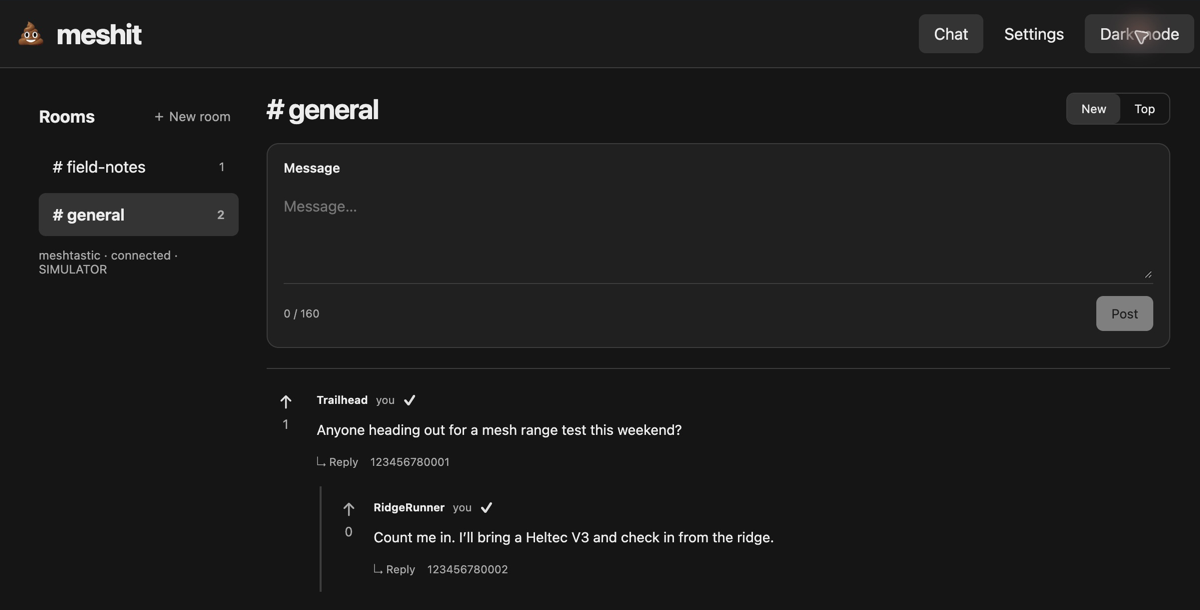
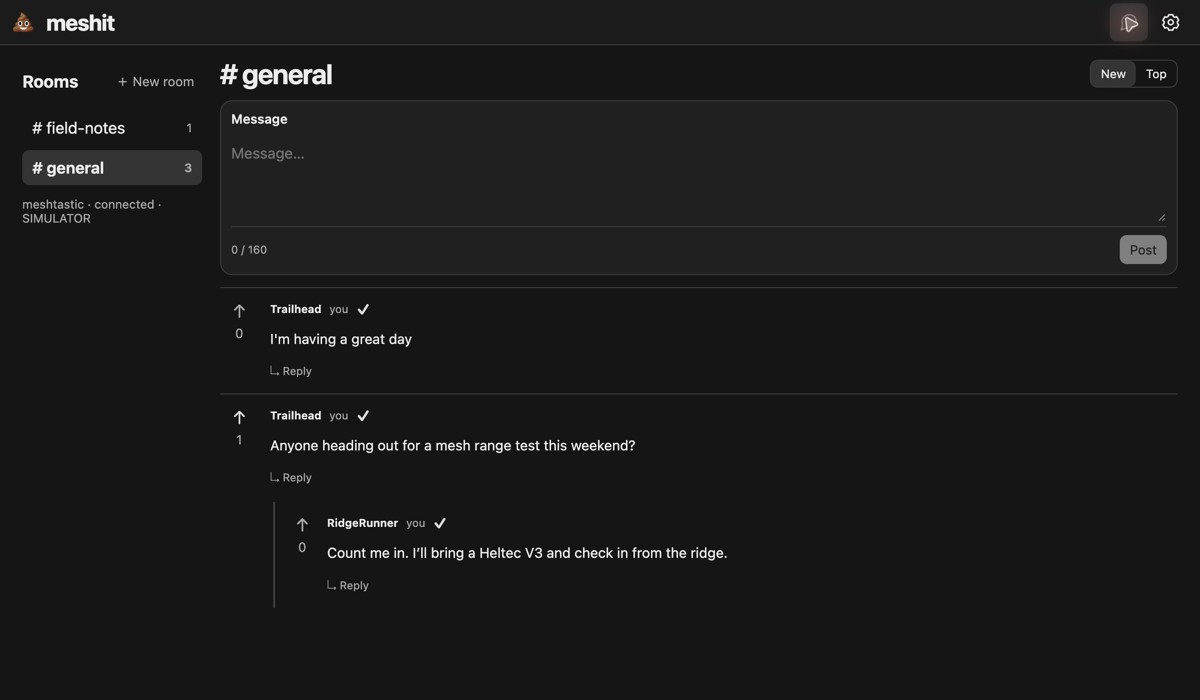
Compact client navigation and move appearance controls into settings

diff --git a/web/style.css b/web/style.css
@@ -3,41 +3,43 @@
 body{margin:0}
 button,input,select,textarea{font:inherit}
 button,a,input,select,textarea{outline-offset:4px}
-button{cursor:pointer;border:0;border-radius:7px;padding:10px 15px;color:inherit;background:transparent}
+button{cursor:pointer;border:0;border-radius:7px;padding:7px 10px;color:inherit;background:transparent}
 button:disabled{opacity:.5;cursor:wait}
 button:hover{background:var(--light)}
-header{background:var(--header);color:var(--header-ink);border-bottom:1px solid var(--line);min-height:68px;padding:12px max(24px,calc((100vw - 1180px)/2));display:flex;align-items:center;justify-content:space-between;gap:20px}
-.brand{font-weight:750;font-size:28px;letter-spacing:-1px;display:flex;align-items:center;gap:10px;color:inherit;text-decoration:none}
-.mark{display:inline-flex;align-items:center;justify-content:center;width:32px;height:32px;font-size:28px;letter-spacing:0}
-nav{display:flex;gap:6px}
+header{background:var(--header);color:var(--header-ink);border-bottom:1px solid var(--line);min-height:44px;padding:3px max(12px,calc((100vw - 1180px)/2));display:flex;align-items:center;justify-content:space-between;gap:10px}
+.brand{font-weight:750;font-size:22px;letter-spacing:-.5px;display:flex;align-items:center;gap:10px;color:inherit;text-decoration:none}
+.mark{display:inline-flex;align-items:center;justify-content:center;width:26px;height:26px;font-size:23px;letter-spacing:0}
+nav{display:flex;gap:4px}
+nav button{display:grid;place-items:center;width:38px;height:38px;padding:8px}
+nav svg{width:20px;height:20px;fill:none;stroke:currentColor;stroke-width:1.8;stroke-linecap:round;stroke-linejoin:round}
 nav button[aria-current=page]{background:var(--header-hover)}
 nav button:hover{background:var(--header-hover)}
-#notice{max-width:1180px;margin:auto;padding:0 24px;font-size:14px;color:var(--notice-ink)}
-#notice:not(:empty){padding:14px 24px;background:var(--notice-bg)}
-.shell{max-width:1180px;margin:24px auto;padding:0 24px;display:grid;grid-template-columns:200px minmax(0,1fr);gap:28px}
+#notice{max-width:1180px;margin:auto;padding:0 12px;font-size:14px;color:var(--notice-ink)}
+#notice:not(:empty){padding:8px 12px;background:var(--notice-bg)}
+.shell{max-width:1180px;margin:12px auto;padding:0 12px;display:grid;grid-template-columns:180px minmax(0,1fr);gap:18px}
 [hidden]{display:none!important}
 .aside-title{display:flex;align-items:center;justify-content:space-between;gap:5px}
 h2{font-size:17px}
 h1{letter-spacing:-1px;font-size:28px;font-weight:650;margin:0}
 .quiet{color:var(--muted);font-size:13px;padding:8px}
-.room{display:flex;align-items:center;justify-content:space-between;width:100%;text-align:left;margin:5px 0;padding:12px 14px}
+.room{display:flex;align-items:center;justify-content:space-between;width:100%;text-align:left;margin:5px 0;padding:8px 10px}
 .room.selected{background:var(--light);font-weight:650}
 .room span:last-child{font-size:12px;color:var(--muted)}
 .connection{font-size:12px;color:var(--muted)}
-.conversation-title{display:flex;justify-content:space-between;align-items:center;gap:12px;margin-bottom:18px}
+.conversation-title{display:flex;justify-content:space-between;align-items:center;gap:12px;margin-bottom:10px}
 .segmented{display:flex;border:1px solid var(--line);border-radius:8px}
-.segmented button{font-size:12px;padding:8px 14px}
+.segmented button{font-size:12px;padding:6px 10px}
 .segmented button[aria-pressed=true]{background:var(--light)}
-#compose{background:var(--white);border:1px solid var(--line);border-radius:12px;padding:16px;margin-bottom:20px}
+#compose{background:var(--white);border:1px solid var(--line);border-radius:12px;padding:10px;margin-bottom:12px}
 label{font-size:13px;font-weight:600;display:block;margin-bottom:8px}
-textarea{border:0;background:transparent;width:100%;resize:vertical;min-height:78px;color:var(--ink);font-size:15px;line-height:1.7;padding:10px 0}
+textarea{border:0;background:transparent;width:100%;resize:vertical;min-height:56px;color:var(--ink);font-size:15px;line-height:1.7;padding:6px 0}
 textarea:focus-visible{outline:2px solid var(--accent);outline-offset:3px;border-radius:4px}
-.composer-footer{display:flex;justify-content:space-between;align-items:center;gap:12px;border-top:1px solid var(--line);padding-top:12px}
+.composer-footer{display:flex;justify-content:space-between;align-items:center;gap:12px;border-top:1px solid var(--line);padding-top:8px}
 .composer-footer>span{font-size:11px;color:var(--muted)}
 .primary{background:var(--accent);color:var(--primary-ink);font-size:13px}
 .primary:hover{background:var(--primary-hover)}
 .secondary{background:var(--light)}
-.post{padding:22px 0;border-top:1px solid var(--line);display:grid;grid-template-columns:38px minmax(0,1fr);gap:12px}
+.post{padding:12px 0;border-top:1px solid var(--line);display:grid;grid-template-columns:38px minmax(0,1fr);gap:12px}
 .vote{display:flex;flex-direction:column;align-items:center;font-size:13px;color:var(--muted)}
 .vote button{font-size:18px;padding:0 8px 4px}
 .vote button[aria-pressed=true]{color:var(--vote)}
@@ -49,18 +51,18 @@ textarea:focus-visible{outline:2px solid var(--accent);outline-offset:3px;border
 .ack{color:var(--ack);font-size:15px;font-weight:700}
 .children{margin:14px 0 0 3px;border-left:2px solid var(--line);padding-left:14px}
 .children .post{padding:12px 0;border:0;grid-template-columns:26px minmax(0,1fr)}
-.empty{text-align:center;color:var(--muted);padding:55px 20px}
+.empty{text-align:center;color:var(--muted);padding:30px 12px}
 .empty h2{color:var(--ink);font-size:18px;font-weight:600}
-.settings{max-width:680px;margin:24px auto;padding:0 24px 60px}
-.settings-card{border:1px solid var(--line);border-radius:12px;background:var(--white);padding:24px;margin:20px 0}
-.settings-card h2{margin:0 0 20px}
-.settings-card label,dialog label{margin-top:16px}
-input:not([type=radio]),select{display:block;width:100%;border:1px solid var(--line);border-radius:6px;padding:11px;margin-top:7px;color:var(--ink);background:var(--white)}
+.settings{max-width:680px;margin:12px auto;padding:0 12px 60px}
+.settings-card{border:1px solid var(--line);border-radius:12px;background:var(--white);padding:12px;margin:12px 0}
+.settings-card h2{margin:0 0 10px}
+.settings-card label,dialog label{margin-top:10px}
+input:not([type=radio]),select{display:block;width:100%;border:1px solid var(--line);border-radius:6px;padding:8px;margin-top:7px;color:var(--ink);background:var(--white)}
 .hint{color:var(--muted);font-weight:400;font-size:12px;line-height:1.7}
 .network-options{display:flex;gap:12px;flex-wrap:wrap}
-.network-options label{padding:14px;border:1px solid var(--line);border-radius:8px;flex:1;margin-bottom:0;white-space:nowrap}
+.network-options label{padding:9px;border:1px solid var(--line);border-radius:8px;flex:1;margin-bottom:0;white-space:nowrap}
 .network-options input{accent-color:var(--accent)}
-dialog{background:var(--white);border:1px solid var(--line);color:var(--ink);border-radius:18px;max-width:480px;width:calc(100% - 32px);padding:36px}
+dialog{background:var(--white);border:1px solid var(--line);color:var(--ink);border-radius:18px;max-width:480px;width:calc(100% - 32px);padding:20px}
 dialog::backdrop{background:#000000af;backdrop-filter:blur(3px)}
 dialog h1{font-size:28px;margin-bottom:15px}
 dialog p{font-size:14px;line-height:1.7;color:var(--muted)}
@@ -69,21 +71,21 @@ dialog .primary{margin-top:24px;width:100%}
 .actions .primary{margin:0}
 #reply-context{font-size:12px;color:var(--muted);padding-top:6px}
 #setup-connect{display:block;margin:15px auto 0}
-@media(max-width:760px){header{padding:12px 16px;min-height:64px;gap:8px}
+@media(max-width:760px){header{padding:2px 10px;min-height:44px;gap:8px}
 nav{gap:2px}
-nav button{padding:8px;font-size:12px}
-.brand{font-size:24px}
-.shell{margin-top:22px;padding:0 16px;grid-template-columns:1fr;gap:24px}
-aside{border-bottom:1px solid var(--line);padding-bottom:16px}
+nav button{padding:8px}
+.brand{font-size:22px}
+.shell{margin-top:10px;padding:0 10px;grid-template-columns:1fr;gap:12px}
+aside{border-bottom:1px solid var(--line);padding-bottom:8px}
 .aside-title h2{font-size:13px}
 #rooms{display:flex;overflow-x:auto;gap:6px}
-.room{width:auto;gap:15px;white-space:nowrap;padding:9px 12px}
+.room{width:auto;gap:15px;white-space:nowrap;padding:7px 10px}
 .connection{margin:10px 0 0}
 .conversation-title h1{font-size:24px}
 .post{gap:8px}
-dialog{padding:26px}
-#compose{padding:16px}
-.settings{margin-top:26px}
+dialog{padding:16px}
+#compose{padding:10px}
+.settings{margin-top:12px}
 .children{padding-left:9px}
 .composer-footer{align-items:flex-start}
 .composer-footer>div{display:flex;gap:5px}
@@ -95,7 +97,7 @@ dialog{padding:26px}
 
 :root[data-theme="dark"]{color-scheme:dark;--ink:#ededed;--muted:#ababab;--paper:#151515;--line:#3c3c3c;--accent:#dedede;--light:#343434;--white:#202020;--header:#1b1b1b;--header-ink:#ededed;--header-hover:#343434;--primary-hover:#ffffff;--primary-ink:#171717;--notice-ink:#ededed;--notice-bg:#343434;--vote:#dedede;--ack:#dedede;}
 
-#theme-toggle[aria-pressed="true"]{background:var(--header-hover)}
+@media(pointer:coarse){nav button{width:44px;height:44px}}
 
 @media(max-width:380px){header{flex-wrap:wrap}
 nav{margin-left:auto}

diff --git a/web/index.html b/web/index.html
@@ -3,7 +3,7 @@
 try{const theme=localStorage.getItem('meshit.theme');if(theme==='dark'||theme==='light')document.documentElement.dataset.theme=theme;}catch{}
 </script><link rel="stylesheet" href="/style.css"></head>
 <body>
-<header><a class="brand" href="#chat"><span class="mark" aria-hidden="true">💩</span> meshit</a><nav><button id="chat-tab" aria-current="page">Chat</button><button id="settings-tab">Settings</button><button id="theme-toggle" aria-label="Dark mode" aria-pressed="false">Dark mode</button></nav></header>
+<header><a class="brand" href="#chat"><span class="mark" aria-hidden="true">💩</span> meshit</a><nav aria-label="Navigation"><button id="chat-tab" aria-label="Chat" title="Chat" aria-current="page"><svg viewBox="0 0 24 24" aria-hidden="true"><path d="M21 11.5a8.4 8.4 0 0 1-.9 3.8 8.5 8.5 0 0 1-7.6 4.7 8.4 8.4 0 0 1-3.8-.9L3 21l1.9-5.7a8.4 8.4 0 0 1-.9-3.8 8.5 8.5 0 0 1 4.7-7.6 8.4 8.4 0 0 1 3.8-.9h.5a8.5 8.5 0 0 1 8 8v.5Z"/></svg></button><button id="settings-tab" aria-label="Settings" title="Settings"><svg viewBox="0 0 24 24" aria-hidden="true"><path d="m9.5 3-.6 2.2-2 .9-2-.7-2.4 4.2 1.6 1.5v2.3l-1.6 1.5 2.4 4.2 2-.7 2 .9.6 2.2h5l.6-2.2 2-.9 2 .7 2.4-4.2-1.6-1.5v-2.3l1.6-1.5-2.4-4.2-2 .7-2-.9L14.5 3Z"/><circle cx="12" cy="12" r="3"/></svg></button></nav></header>
 <div id="notice" role="status" aria-live="polite"></div>
 <main id="chat-view" class="shell" hidden>
   <aside><div class="aside-title"><h2>Rooms</h2><button id="new-room" class="quiet" aria-label="New room">＋ New room</button></div><div id="rooms"></div><p id="connection" class="connection">Connecting…</p></aside>
@@ -13,6 +13,7 @@ try{const theme=localStorage.getItem('meshit.theme');if(theme==='dark'||theme===
   </section>
 </main>
 <main id="settings-view" class="settings" hidden><h1>Settings</h1>
+  <section class="settings-card"><label for="appearance">Appearance</label><select id="appearance"><option value="system">System</option><option value="light">Light</option><option value="dark">Dark</option></select></section>
   <section class="settings-card"><h2>Your radio</h2><p id="radio-info"></p><label>Connection<select id="transport"><option value="local">This radio / local Wi-Fi</option><option value="wifi">Another radio on Wi-Fi</option><option value="ble">Bluetooth</option></select></label><label id="address-label" hidden>Radio address<input id="address" type="url" placeholder="http://meshit.local"></label><button id="connect" class="secondary">Connect</button></section>
   <form id="settings-form"><section class="settings-card"><h2>Identity</h2><label>Nickname <span class="hint">optional · 16 UTF-8 bytes</span><input id="nickname" placeholder="Anonymous" autocomplete="nickname"></label></section>
     <section class="settings-card"><h2>Network</h2><div class="network-options"><label><input type="radio" name="network" value="meshtastic"> Meshtastic</label><label><input type="radio" name="network" value="meshcore"> MeshCore</label></div><label>Region<select id="region"></select></label><label>Preset<select id="preset"></select></label><p id="preset-detail" class="hint"></p><label id="channel-label">Transport channel name<input id="channel" value="LongFast" maxlength="32"></label><p class="hint">Changing network or preset clears radio history.</p></section>

diff --git a/web/app.js b/web/app.js
@@ -3,12 +3,13 @@ const $=id=>document.getElementById(id),utf8=s=>new TextEncoder().encode(s).leng
 const systemTheme=matchMedia('(prefers-color-scheme: dark)');
 function updateTheme(){
   const dark=(document.documentElement.dataset.theme|| (systemTheme.matches?'dark':'light'))==='dark';
-  $('theme-toggle').setAttribute('aria-pressed',String(dark));
+  $('appearance').value=document.documentElement.dataset.theme||'system';
   document.querySelector('meta[name="theme-color"]').content=dark?'#151515':'#fafafa';
 }
-$('theme-toggle').onclick=()=>{
-  const theme=$('theme-toggle').getAttribute('aria-pressed')==='true'?'light':'dark';
-  document.documentElement.dataset.theme=theme;
+$('appearance').onchange=()=>{
+  const theme=$('appearance').value;
+  if(theme==='system')delete document.documentElement.dataset.theme;
+  else document.documentElement.dataset.theme=theme;
   try{localStorage.setItem('meshit.theme',theme);}catch{}
   updateTheme();
 };
@@ -38,7 +39,7 @@ function render(){
   function post(m,depth=0){
     const row=element('article','post'),vote=element('div','vote'),up=element('button',null,'↑');up.setAttribute('aria-label',m.voted?'Remove upvote':'Upvote');up.setAttribute('aria-pressed',String(m.voted));up.onclick=()=>act(async()=>{await transport.request({op:'vote',target:m.id,up:!m.voted});loadedRevision=0;await refresh();});vote.append(up,element('span',null,String(m.votes)));
     const content=element('div'),meta=element('div','meta');meta.append(element('strong',null,m.nickname||'Anonymous'));if(m.mine)meta.append(element('span',null,'you'));if(m.acknowledged){const ack=element('span','ack','✓');ack.title='Your message was heard rebroadcast by another radio';ack.setAttribute('aria-label',ack.title);meta.append(ack);}
-    const actions=element('div','post-actions'),button=element('button',null,'↳ Reply');button.onclick=()=>{reply=m.id;count();$('message').focus();$('compose').scrollIntoView({behavior:'smooth',block:'center'});};actions.append(button);if(m.mine&&!m.acknowledged)actions.append(element('span',null,m.status));const id=element('span',null,m.id);id.title='Message number';actions.append(id);
+    const actions=element('div','post-actions'),button=element('button',null,'↳ Reply');button.onclick=()=>{reply=m.id;count();$('message').focus();$('compose').scrollIntoView({behavior:'smooth',block:'center'});};actions.append(button);if(m.mine&&!m.acknowledged)actions.append(element('span',null,m.status));
     content.append(meta,element('p','body',m.text),actions);
     const children=sorted(list.filter(child=>child.parent===m.id));if(children.length&&depth<32){const box=element('div','children');for(const child of children)box.append(post(child,depth+1));content.append(box);}row.append(vote,content);return row;
   }

diff --git a/docs/wiki/Using-Meshit.md b/docs/wiki/Using-Meshit.md
@@ -2,9 +2,9 @@
 
 ## Appearance
 
-The 💩 logo identifies Meshit. The interface uses the neutral Paper/Graphite palette, sans-serif fonts, and a compact layout. **Chat** opens conversations; **Settings** opens radio configuration.
+The 💩 logo identifies Meshit. The interface uses the neutral Paper/Graphite palette, sans-serif fonts, and a compact layout. The chat-bubble icon opens conversations; the gear icon opens settings. Message IDs are hidden in the client.
 
-**Dark mode** in the header toggles between light and dark themes. On first use, the app follows your device preference. After you toggle, that choice is saved locally and survives reloads; it applies to chat, settings, and dialogs. Each browser or companion keeps its own preference.
+In Settings, **Appearance** offers **Light**, **Dark**, and **System**. System is the default and follows device appearance changes automatically. Your selection is saved locally and survives reloads; it applies immediately to chat, settings, and dialogs, without saving radio settings. Each browser or companion keeps its own preference.
 
 ![Meshit chat in dark mode](../screenshots/chat-dark.png)
 

diff --git a/docs/wiki/Connection-and-Settings.md b/docs/wiki/Connection-and-Settings.md
@@ -8,9 +8,9 @@ The initial preset catalog covers US/Canada and EU 868 MHz, with Meshtastic Long
 
 ## Settings
 
-The header’s **Dark mode** toggle changes appearance only; it does not change radio settings or history.
+Open the gear icon and choose **Appearance → Light, Dark, or System**. Appearance changes apply immediately and do not change radio settings or history.
 
-Open **Settings** to change the connection, nickname, radio network, region, and preset. Nicknames are optional and fit 16 UTF-8 bytes; blank means Anonymous. Changing the network or preset starts a fresh radio history.
+Open the **Settings** gear icon to change the connection, nickname, radio network, region, and preset. Nicknames are optional and fit 16 UTF-8 bytes; blank means Anonymous. Changing the network or preset starts a fresh radio history.
 
 For a second ESP on the LAN, select **Another radio on Wi-Fi** and enter its HTTP address. In a browser, HTTP RPC must be same-origin; use the radio's own webpage for local Wi-Fi control. Native companions provide the local HTTP adapter.
 

diff --git a/docs/wiki/Home.md b/docs/wiki/Home.md
@@ -4,7 +4,7 @@ Small, threaded LoRa chat on Heltec V3 and RAK4631, using nearby Meshtastic or M
 
 **[Install firmware](https://meshit.pdxlocs.com)** · **[Release downloads](https://github.com/pdxlocations/meshit/releases)**
 
-The companion has a compact sans-serif layout and Paper/Graphite light/dark themes. Use **Dark mode** in the header to switch; your choice is saved on that companion.
+The companion has a compact sans-serif layout and Paper/Graphite light/dark themes. Use the gear icon → **Appearance** to choose **Light**, **Dark**, or **System**; your choice is saved on that companion.
 
 ## Start here
 

diff --git a/README.md b/README.md
@@ -10,7 +10,7 @@ There are no locations, node advertisements, direct messages, explicit radio ack
 
 ## Screenshots
 
-The companion uses a compact sans-serif layout with a 💩 logo and Paper/Graphite colors and a saved light/dark preference. Use **Dark mode** in the header to switch themes.
+The companion uses a compact sans-serif layout with a 💩 logo and Paper/Graphite colors and a saved light/dark preference. Use the gear icon → **Appearance** to choose **Light**, **Dark**, or **System**.
 
 **Light mode**
 
